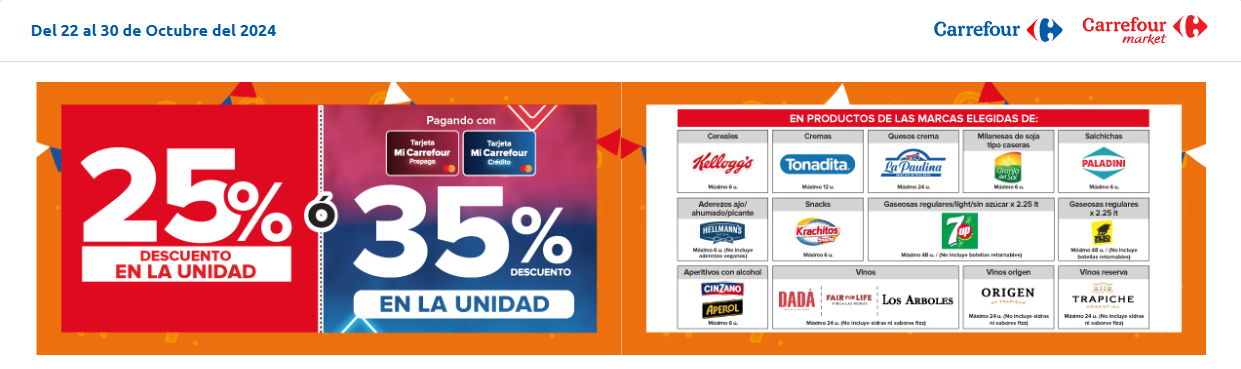
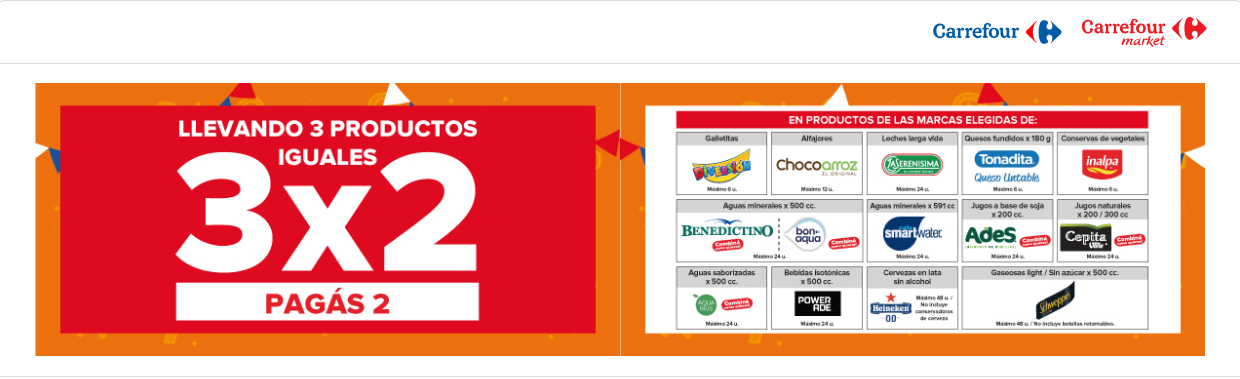
promociones

diff --git a/finanzas/app/templates/promociones.html b/finanzas/app/templates/promociones.html
@@ -10,6 +10,7 @@
             <li data-target="#myCarousel" data-slide-to="0" class="active"></li>
             <li data-target="#myCarousel" data-slide-to="1"></li>
             <li data-target="#myCarousel" data-slide-to="2"></li>
+            <li data-target="#myCarousel" data-slide-to="3"></li>
         </ol>
     
         <!-- Contenido del carrusel -->
@@ -36,6 +37,13 @@
                     <p>Descripción del Slide 3.</p>
                 </div>
             </div>
+            <div class="carousel-item">
+                <img src="{% static 'img/promocion4.JPG' %}" class="d-block w-100" alt="Slide 4">
+                <div class="carousel-caption d-none d-md-block">
+                    <h5>Título Slide 4</h5>
+                    <p>Descripción del Slide 4.</p>
+                </div>
+            </div>
         </div>
     
         <!-- Controles -->
@@ -47,8 +55,94 @@
             <span class="carousel-control-next-icon" aria-hidden="true"></span>
             <span class="sr-only">Siguiente</span>
         </a>
-    </div>
-</div>
+    </div><!--Fin carousel-->
 
+    <div class="form-section">         
+        <div class="container mt-5">
+            <h2>Supermercados</h2>
+            <div class="table-responsive">
+                <table id="promociones" class="table table-striped table-bordered display">
+                    <thead>
+                        <tr>
+                        
+                        <th>Nombre</th>
+                        <th>Pagina Oficial</th>
+                        </tr>
+                    </thead>
+                    <tbody>
+                    
+                        <tr>
+                        <td>Carrefour</td>
+                        <td><a href="https://www.carrefour.com.ar" target="_blank">Abrir</a></td>
+                        </tr>
+            
+                        <tr>
+                        <td>Disco</td>
+                        <td><a href="https://www.disco.com.ar" target="_blank">Abrir</a></td>
+                        </tr>                    
+                
+                        <tr>
+                        <td>Coto</td>
+                        <td><a href="https://www.disco.com.ar" target="_blank">Abrir</a></td>
+                        </tr>
+                    </tbody>
+                </table>
+            </div>
+        </div>        
+    </div>
+
+
+
+
+    
+</div>
+<!-- FinTablas-->
+
+<style>
+    body {
+        background-color: #dfdfdf;
+    }
+    .form-section {
+        background-color: rgb(255, 255, 255);
+        border-radius: 10px; 
+        padding: 1%; 
+        margin: 1%; 
+    }
+    #fijo-checkbox{
+        margin-top:20%;
+     
+    }
+</style>
+
+<!--Tablas-->
+
+<script>
+    $(document).ready(function() {
+        $('#promociones').DataTable({
+            "language": {
+                "url": "//cdn.datatables.net/plug-ins/1.13.4/i18n/es-ES.json"
+            },
+            "paging": true,        // Activa la paginación
+            "searching": true,     // Activa la barra de búsqueda
+            "info": true,          // Activa la información sobre la tabla
+            "lengthChange": true,  // Permite cambiar la cantidad de registros mostrados
+        });
+    });
+</script>
+<style>
+    body {
+        background-color: #dfdfdf;
+    }
+    .form-section {
+        background-color: rgb(255, 255, 255);
+        border-radius: 10px; 
+        padding: 1%; 
+        margin: 1%; 
+    }
+    #fijo-checkbox{
+        margin-top:20%;
+     
+    }
+</style>
 {% endblock %}
 
